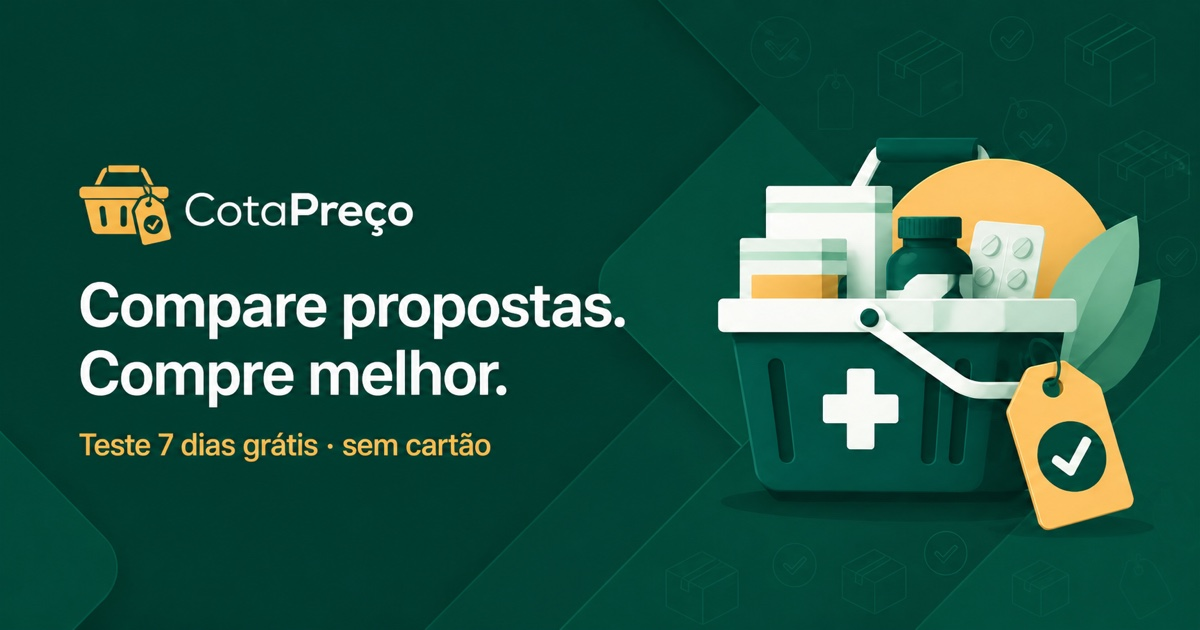
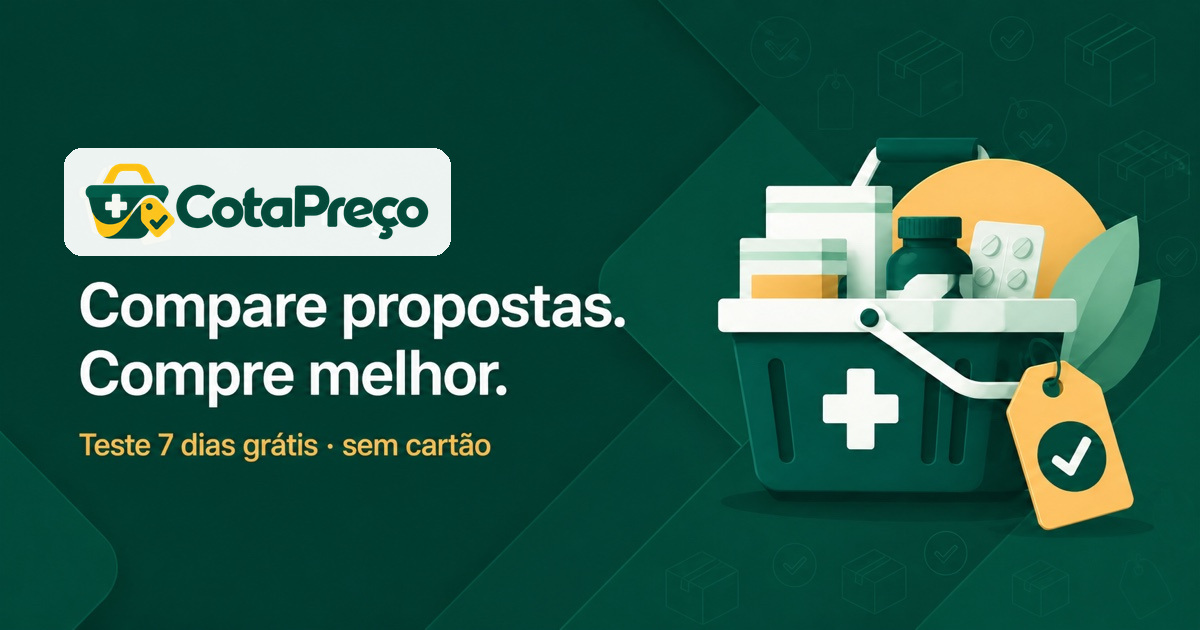
Atualiza identidade visual do CotaPreco

Changed region(s): [[0.0308, 0.2111, 0.4008, 0.4222]]

diff --git a/src/pages/PaginaAlterarSenhaRepresentante.tsx b/src/pages/PaginaAlterarSenhaRepresentante.tsx
@@ -8,5 +8,5 @@ import { LinkInterno, usarParametrosBusca } from '../roteamento'
 export default function PaginaAlterarSenhaRepresentante(){
   const[params]=usarParametrosBusca();const retorno=params.get('retornar')?.startsWith('/cotacao/responder/')?params.get('retornar')!:'/';const[senhaAtual,setSenhaAtual]=useState('');const[novaSenha,setNovaSenha]=useState('');const[confirmacao,setConfirmacao]=useState('');const[mostrar,setMostrar]=useState(false);const[erro,setErro]=useState('');const[ocupado,setOcupado]=useState(false);const[concluido,setConcluido]=useState(false)
   const salvar=async(event:FormEvent)=>{event.preventDefault();setErro('');if(novaSenha!==confirmacao){setErro('A confirmação não corresponde à nova senha.');return}setOcupado(true);try{await apiRepresentante('/publico/representantes/senha',{method:'PUT',body:JSON.stringify({senhaAtual,novaSenha})});await encerrarSessaoRepresentante();setConcluido(true)}catch(e){setErro(e instanceof ErroApi?e.message:'Não foi possível alterar a senha.')}finally{setOcupado(false)}}
-  return <div className="public-page public-center"><div className="public-logo reset-logo"><img src="/cotapreco-icon.png" alt=""/>CotaPreço</div><section className="public-card reset-card">{concluido?<><div className="success-icon large"><CheckCircle2/></div><h1>Senha alterada</h1><p>Por segurança, sua sessão foi encerrada. Entre novamente para continuar.</p><LinkInterno className="button button-primary button-large full-button" to={retorno}>Voltar para a cotação</LinkInterno></>:<><div className="success-icon small-icon"><KeyRound/></div><span className="eyebrow green">Conta do representante</span><h1>Alterar senha</h1><p>Confirme sua senha atual e escolha uma nova.</p>{erro&&<AvisoErro message={erro}/>}<form className="stack-form" onSubmit={salvar}><label>Senha atual<div className="password-field"><input required autoComplete="current-password" type={mostrar?'text':'password'} value={senhaAtual} onChange={e=>setSenhaAtual(e.target.value)}/><button type="button" aria-label={mostrar?'Ocultar senhas':'Mostrar senhas'} onClick={()=>setMostrar(valor=>!valor)}>{mostrar?<EyeOff/>:<Eye/>}</button></div></label><label>Nova senha<input required autoComplete="new-password" maxLength={72} type={mostrar?'text':'password'} value={novaSenha} onChange={e=>setNovaSenha(e.target.value)}/><IndicadorForcaSenha senha={novaSenha}/></label><label>Confirmar nova senha<input required autoComplete="new-password" maxLength={72} type={mostrar?'text':'password'} value={confirmacao} onChange={e=>setConfirmacao(e.target.value)}/></label><button className="button button-primary button-large full-button" disabled={ocupado}>{ocupado?'Atualizando...':'Atualizar senha'}</button></form></>}<div className="public-security"><ShieldCheck/>A alteração encerra as sessões ativas.</div>{!concluido&&<LinkInterno className="reset-back" to={retorno}><ArrowLeft/>Voltar para a cotação</LinkInterno>}</section></div>
+  return <div className="public-page public-center"><div className="public-logo reset-logo"><img className="cotapreco-logo" src="/cotapreco-logo.png?v=20260904-2" alt="CotaPreço"/></div><section className="public-card reset-card">{concluido?<><div className="success-icon large"><CheckCircle2/></div><h1>Senha alterada</h1><p>Por segurança, sua sessão foi encerrada. Entre novamente para continuar.</p><LinkInterno className="button button-primary button-large full-button" to={retorno}>Voltar para a cotação</LinkInterno></>:<><div className="success-icon small-icon"><KeyRound/></div><span className="eyebrow green">Conta do representante</span><h1>Alterar senha</h1><p>Confirme sua senha atual e escolha uma nova.</p>{erro&&<AvisoErro message={erro}/>}<form className="stack-form" onSubmit={salvar}><label>Senha atual<div className="password-field"><input required autoComplete="current-password" type={mostrar?'text':'password'} value={senhaAtual} onChange={e=>setSenhaAtual(e.target.value)}/><button type="button" aria-label={mostrar?'Ocultar senhas':'Mostrar senhas'} onClick={()=>setMostrar(valor=>!valor)}>{mostrar?<EyeOff/>:<Eye/>}</button></div></label><label>Nova senha<input required autoComplete="new-password" maxLength={72} type={mostrar?'text':'password'} value={novaSenha} onChange={e=>setNovaSenha(e.target.value)}/><IndicadorForcaSenha senha={novaSenha}/></label><label>Confirmar nova senha<input required autoComplete="new-password" maxLength={72} type={mostrar?'text':'password'} value={confirmacao} onChange={e=>setConfirmacao(e.target.value)}/></label><button className="button button-primary button-large full-button" disabled={ocupado}>{ocupado?'Atualizando...':'Atualizar senha'}</button></form></>}<div className="public-security"><ShieldCheck/>A alteração encerra as sessões ativas.</div>{!concluido&&<LinkInterno className="reset-back" to={retorno}><ArrowLeft/>Voltar para a cotação</LinkInterno>}</section></div>
 }

diff --git a/src/components/LayoutSistema.tsx b/src/components/LayoutSistema.tsx
@@ -43,7 +43,7 @@ export default function LayoutSistema({children}:{children:ReactNode}){
   const tituloNavegacao=(label:string)=>recolhidaEfetiva?label:undefined
   return <div className={`app-shell ${recolhidaEfetiva?'app-shell-sidebar-recolhida':''}`}>
     <aside className={`sidebar ${open?'sidebar-open':''} ${recolhidaEfetiva?'sidebar-recolhida':''}`}>
-      <div className="brand"><div className="brand-mark"><img src="/cotapreco-icon.png" alt=""/></div><div className="brand-copy"><strong>CotaPreço</strong><span>{user?.staff?'Equipe interna':'Compras inteligentes'}</span></div><button aria-label={recolhida?'Expandir menu':'Minimizar menu'} className="icon-button sidebar-toggle" title={recolhida?'Expandir menu':'Minimizar menu'} onClick={()=>setRecolhida(valor=>!valor)}>{recolhida?<PanelLeftOpen size={20}/>:<PanelLeftClose size={20}/>}</button><button className="icon-button sidebar-close" onClick={()=>setOpen(false)}><X size={20}/></button></div>
+      <div className="brand"><div className="brand-copy"><img className="cotapreco-logo" src="/cotapreco-logo.png?v=20260904-2" alt="CotaPreço"/><span>{user?.staff?'Equipe interna':'Compras inteligentes'}</span></div><button aria-label={recolhida?'Expandir menu':'Minimizar menu'} className="icon-button sidebar-toggle" title={recolhida?'Expandir menu':'Minimizar menu'} onClick={()=>setRecolhida(valor=>!valor)}>{recolhida?<PanelLeftOpen size={20}/>:<PanelLeftClose size={20}/>}</button><button className="icon-button sidebar-close" onClick={()=>setOpen(false)}><X size={20}/></button></div>
       <nav>
         {(user?.staff?linksStaff:links).map(({to,label,icon:Icon,end})=><LinkNavegacao key={to} to={to} end={end} aria-label={label} title={tituloNavegacao(label)} onClick={fecharMenuMobile}><Icon size={20}/><span>{label}</span><ChevronRight className="nav-chevron" size={16}/></LinkNavegacao>)}
         {!user?.staff&&(isAdminAtivo(user)||isAdminDoGrupo(user))&&<><div className="nav-divider"/><span className="nav-label">Administração</span>{isAdminDoGrupo(user)&&<LinkNavegacao to="/usuarios" aria-label="Usuários" title={tituloNavegacao('Usuários')} onClick={fecharMenuMobile}><Users size={20}/><span>Usuários</span><ChevronRight className="nav-chevron" size={16}/></LinkNavegacao>}<LinkNavegacao to="/dados-farmacia" aria-label="Dados da farmácia" title={tituloNavegacao('Dados da farmácia')} onClick={fecharMenuMobile}><Building2 size={20}/><span>Dados da farmácia</span><ChevronRight className="nav-chevron" size={16}/></LinkNavegacao></>}
@@ -54,6 +54,6 @@ export default function LayoutSistema({children}:{children:ReactNode}){
       <div className="account"><div className="avatar">{user?.name.slice(0,2).toUpperCase()}</div><div><strong>{user?.name}</strong>{!user?.staff&&<SeletorFarmacia user={user}/>}</div><button className="icon-button" title="Sair" onClick={()=>void logout()}><LogOut size={19}/></button></div>
     </aside>
     {open&&<button aria-label="Fechar menu" className="sidebar-backdrop" onClick={()=>setOpen(false)}/>} 
-    <div className="main-area"><header className="mobile-header"><button className="icon-button" onClick={()=>setOpen(true)}><Menu/></button><div className="brand compact"><div className="brand-mark"><img src="/cotapreco-icon.png" alt=""/></div><strong>CotaPreço</strong></div><div className="avatar small">{user?.name[0]}</div></header><main><AvisoEmailConfirmado/><FaixaAssinatura/><FaixaConfirmacaoEmail/>{children}</main><footer className="rodape-sistema"><AssinaturaEmpresa/></footer></div>
+    <div className="main-area"><header className="mobile-header"><button className="icon-button" onClick={()=>setOpen(true)}><Menu/></button><div className="brand compact"><img className="cotapreco-logo" src="/cotapreco-logo.png?v=20260904-2" alt="CotaPreço"/></div><div className="avatar small">{user?.name[0]}</div></header><main><AvisoEmailConfirmado/><FaixaAssinatura/><FaixaConfirmacaoEmail/>{children}</main><footer className="rodape-sistema"><AssinaturaEmpresa/></footer></div>
   </div>
 }

diff --git a/src/pages/PaginaRedefinirSenha.tsx b/src/pages/PaginaRedefinirSenha.tsx
@@ -8,5 +8,5 @@ export default function PaginaRedefinirSenha(){
   const[params]=usarParametrosBusca();const token=params.get('token')??''
   const[senha,setSenha]=useState('');const[confirmacao,setConfirmacao]=useState('');const[erro,setErro]=useState('');const[ocupado,setOcupado]=useState(false);const[concluido,setConcluido]=useState(false)
   const enviar=async(event:FormEvent)=>{event.preventDefault();setErro('');if(senha!==confirmacao){setErro('As senhas não coincidem.');return}setOcupado(true);try{await apiPublica('/auth/redefinir-senha',{method:'POST',body:JSON.stringify({token,novaSenha:senha})});setConcluido(true)}catch(e){setErro(e instanceof ErroApi?e.message:'Não foi possível redefinir a senha.')}finally{setOcupado(false)}}
-  return <div className="public-page public-center"><div className="public-logo reset-logo"><img src="/cotapreco-icon.png" alt=""/>CotaPreço</div><section className="public-card reset-card">{concluido?<><div className="success-icon large"><CheckCircle2/></div><h1>Senha redefinida</h1><p>Sua senha foi atualizada. Entre novamente para continuar.</p><LinkInterno className="button button-primary button-large full-button" to="/login">Ir para o login</LinkInterno></>:<><div className="success-icon small-icon"><KeyRound/></div><span className="eyebrow green">Recuperar acesso</span><h1>Crie uma nova senha</h1><p>Escolha uma senha com pelo menos 8 caracteres.</p>{!token&&<AvisoErro message="O link de redefinição está incompleto."/>}{erro&&<AvisoErro message={erro}/>}<form onSubmit={enviar} className="stack-form"><label>Nova senha<input type="password" required minLength={8} maxLength={72} autoComplete="new-password" value={senha} onChange={e=>setSenha(e.target.value)}/></label><label>Confirmar nova senha<input type="password" required minLength={8} maxLength={72} autoComplete="new-password" value={confirmacao} onChange={e=>setConfirmacao(e.target.value)}/></label><button className="button button-primary button-large full-button" disabled={ocupado||!token}>{ocupado?'Salvando...':'Redefinir senha'}</button></form></>}<div className="public-security"><ShieldCheck/>Link protegido e de uso único.</div></section></div>
+  return <div className="public-page public-center"><div className="public-logo reset-logo"><img className="cotapreco-logo" src="/cotapreco-logo.png?v=20260904-2" alt="CotaPreço"/></div><section className="public-card reset-card">{concluido?<><div className="success-icon large"><CheckCircle2/></div><h1>Senha redefinida</h1><p>Sua senha foi atualizada. Entre novamente para continuar.</p><LinkInterno className="button button-primary button-large full-button" to="/login">Ir para o login</LinkInterno></>:<><div className="success-icon small-icon"><KeyRound/></div><span className="eyebrow green">Recuperar acesso</span><h1>Crie uma nova senha</h1><p>Escolha uma senha com pelo menos 8 caracteres.</p>{!token&&<AvisoErro message="O link de redefinição está incompleto."/>}{erro&&<AvisoErro message={erro}/>}<form onSubmit={enviar} className="stack-form"><label>Nova senha<input type="password" required minLength={8} maxLength={72} autoComplete="new-password" value={senha} onChange={e=>setSenha(e.target.value)}/></label><label>Confirmar nova senha<input type="password" required minLength={8} maxLength={72} autoComplete="new-password" value={confirmacao} onChange={e=>setConfirmacao(e.target.value)}/></label><button className="button button-primary button-large full-button" disabled={ocupado||!token}>{ocupado?'Salvando...':'Redefinir senha'}</button></form></>}<div className="public-security"><ShieldCheck/>Link protegido e de uso único.</div></section></div>
 }

diff --git a/src/pages/PaginaRedefinirSenhaRepresentante.tsx b/src/pages/PaginaRedefinirSenhaRepresentante.tsx
@@ -9,5 +9,5 @@ export default function PaginaRedefinirSenhaRepresentante(){
   const[params]=usarParametrosBusca();const token=params.get('token')??''
   const[senha,setSenha]=useState('');const[confirmacao,setConfirmacao]=useState('');const[erro,setErro]=useState('');const[ocupado,setOcupado]=useState(false);const[concluido,setConcluido]=useState(false)
   const enviar=async(event:FormEvent)=>{event.preventDefault();setErro('');if(senha!==confirmacao){setErro('As senhas não coincidem.');return}setOcupado(true);try{await apiPublica('/publico/representantes/redefinir-senha',{method:'POST',body:JSON.stringify({token,novaSenha:senha})});setConcluido(true)}catch(e){setErro(e instanceof ErroApi?e.message:'Não foi possível redefinir a senha.')}finally{setOcupado(false)}}
-  return <div className="public-page public-center"><div className="public-logo reset-logo"><img src="/cotapreco-icon.png" alt=""/>CotaPreço</div><section className="public-card reset-card">{concluido?<><div className="success-icon large"><CheckCircle2/></div><h1>Senha redefinida</h1><p>Abra novamente o link da cotação para entrar com sua nova senha.</p></>:<><div className="success-icon small-icon"><KeyRound/></div><span className="eyebrow green">Conta do representante</span><h1>Crie uma nova senha</h1><p>Escolha uma senha fácil de lembrar.</p>{!token&&<AvisoErro message="O link de redefinição está incompleto."/>}{erro&&<AvisoErro message={erro}/>}<form onSubmit={enviar} className="stack-form"><label>Nova senha<input type="password" required minLength={1} maxLength={72} autoComplete="new-password" value={senha} onChange={e=>setSenha(e.target.value)}/><IndicadorForcaSenha senha={senha}/></label><label>Confirmar nova senha<input type="password" required minLength={1} maxLength={72} autoComplete="new-password" value={confirmacao} onChange={e=>setConfirmacao(e.target.value)}/></label><button className="button button-primary button-large full-button" disabled={ocupado||!token}>{ocupado?'Salvando...':'Redefinir senha'}</button></form></>}<div className="public-security"><ShieldCheck/>Link protegido e de uso único.</div></section></div>
+  return <div className="public-page public-center"><div className="public-logo reset-logo"><img className="cotapreco-logo" src="/cotapreco-logo.png?v=20260904-2" alt="CotaPreço"/></div><section className="public-card reset-card">{concluido?<><div className="success-icon large"><CheckCircle2/></div><h1>Senha redefinida</h1><p>Abra novamente o link da cotação para entrar com sua nova senha.</p></>:<><div className="success-icon small-icon"><KeyRound/></div><span className="eyebrow green">Conta do representante</span><h1>Crie uma nova senha</h1><p>Escolha uma senha fácil de lembrar.</p>{!token&&<AvisoErro message="O link de redefinição está incompleto."/>}{erro&&<AvisoErro message={erro}/>}<form onSubmit={enviar} className="stack-form"><label>Nova senha<input type="password" required minLength={1} maxLength={72} autoComplete="new-password" value={senha} onChange={e=>setSenha(e.target.value)}/><IndicadorForcaSenha senha={senha}/></label><label>Confirmar nova senha<input type="password" required minLength={1} maxLength={72} autoComplete="new-password" value={confirmacao} onChange={e=>setConfirmacao(e.target.value)}/></label><button className="button button-primary button-large full-button" disabled={ocupado||!token}>{ocupado?'Salvando...':'Redefinir senha'}</button></form></>}<div className="public-security"><ShieldCheck/>Link protegido e de uso único.</div></section></div>
 }

diff --git a/src/pages/PaginaEsqueciSenha.tsx b/src/pages/PaginaEsqueciSenha.tsx
@@ -7,5 +7,5 @@ import { LinkInterno } from '../roteamento'
 export default function PaginaEsqueciSenha(){
   const[email,setEmail]=useState('');const[erro,setErro]=useState('');const[mensagem,setMensagem]=useState('');const[ocupado,setOcupado]=useState(false)
   const enviar=async(event:FormEvent)=>{event.preventDefault();setErro('');setMensagem('');setOcupado(true);try{const resposta=await apiPublica<{mensagem:string}>('/auth/esqueci-senha',{method:'POST',body:JSON.stringify({email})});setMensagem(resposta.mensagem)}catch(e){setErro(e instanceof ErroApi?e.message:'Não foi possível enviar as instruções.')}finally{setOcupado(false)}}
-  return <div className="public-page public-center"><div className="public-logo reset-logo"><img src="/cotapreco-icon.png" alt=""/>CotaPreço</div><section className="public-card reset-card"><div className="success-icon small-icon"><KeyRound/></div><span className="eyebrow green">Recuperar acesso</span><h1>Esqueceu sua senha?</h1><p>Informe seu e-mail de acesso. Enviaremos um link seguro para criar uma nova senha.</p>{erro&&<AvisoErro message={erro}/>} {mensagem?<div className="reset-success"><CheckCircle2/><p>{mensagem}</p></div>:<form onSubmit={enviar} className="stack-form"><label>E-mail<input type="email" required autoComplete="email" value={email} onChange={e=>setEmail(e.target.value)}/></label><button className="button button-primary button-large full-button" disabled={ocupado}>{ocupado?'Enviando...':<><Mail/>Enviar instruções</>}</button></form>}<LinkInterno className="reset-back" to="/login"><ArrowLeft/>Voltar para o login</LinkInterno></section></div>
+  return <div className="public-page public-center"><div className="public-logo reset-logo"><img className="cotapreco-logo" src="/cotapreco-logo.png?v=20260904-2" alt="CotaPreço"/></div><section className="public-card reset-card"><div className="success-icon small-icon"><KeyRound/></div><span className="eyebrow green">Recuperar acesso</span><h1>Esqueceu sua senha?</h1><p>Informe seu e-mail de acesso. Enviaremos um link seguro para criar uma nova senha.</p>{erro&&<AvisoErro message={erro}/>} {mensagem?<div className="reset-success"><CheckCircle2/><p>{mensagem}</p></div>:<form onSubmit={enviar} className="stack-form"><label>E-mail<input type="email" required autoComplete="email" value={email} onChange={e=>setEmail(e.target.value)}/></label><button className="button button-primary button-large full-button" disabled={ocupado}>{ocupado?'Enviando...':<><Mail/>Enviar instruções</>}</button></form>}<LinkInterno className="reset-back" to="/login"><ArrowLeft/>Voltar para o login</LinkInterno></section></div>
 }

diff --git a/index.html b/index.html
@@ -12,16 +12,16 @@
     <meta property="og:url" content="https://cotapreco.com/"/>
     <meta property="og:title" content="CotaPreço — Cotação de medicamentos para farmácias"/>
     <meta property="og:description" content="Compare as propostas das distribuidoras item a item e receba o pedido de cada uma pronto. Teste 7 dias grátis, sem cartão."/>
-    <meta property="og:image" content="https://cotapreco.com/cotapreco-social-whatsapp.jpg"/>
+    <meta property="og:image" content="https://cotapreco.com/cotapreco-social-whatsapp.jpg?v=20260904-2"/>
     <meta property="og:image:type" content="image/jpeg"/>
     <meta property="og:image:width" content="1200"/><meta property="og:image:height" content="630"/>
     <meta property="og:image:alt" content="CotaPreço — Compare propostas. Compre melhor. Teste 7 dias grátis, sem cartão."/>
     <meta name="twitter:card" content="summary_large_image"/>
     <meta name="twitter:title" content="CotaPreço — Cotação de medicamentos para farmácias"/>
     <meta name="twitter:description" content="Compare as propostas das distribuidoras item a item e receba o pedido de cada uma pronto. Teste 7 dias grátis, sem cartão."/>
-    <meta name="twitter:image" content="https://cotapreco.com/cotapreco-social-whatsapp.jpg"/>
-    <link rel="icon" type="image/png" href="/favicon.png"/><link rel="apple-touch-icon" href="/apple-touch-icon.png"/>
-    <link rel="manifest" href="/manifest.webmanifest"/>
+    <meta name="twitter:image" content="https://cotapreco.com/cotapreco-social-whatsapp.jpg?v=20260904-2"/>
+    <link rel="icon" type="image/png" href="/favicon.png?v=20260904-2"/><link rel="apple-touch-icon" href="/apple-touch-icon.png?v=20260904-2"/>
+    <link rel="manifest" href="/manifest.webmanifest?v=20260904-2"/>
     <link rel="preload" as="image" href="/landing/04-compra-sugerida-mobile.webp" media="(max-width: 700px)"/>
     <script type="application/ld+json">
     {
@@ -33,6 +33,7 @@
           "applicationCategory": "BusinessApplication",
           "operatingSystem": "Web",
           "url": "https://cotapreco.com/",
+          "image": "https://cotapreco.com/cotapreco-logo.png?v=20260904-2",
           "description": "Sistema de cotação e compra de medicamentos para farmácias: recebe as propostas das distribuidoras, compara item a item e monta o pedido de cada uma pelo melhor preço.",
           "inLanguage": "pt-BR",
           "offers": {

diff --git a/src/styles.css b/src/styles.css
@@ -4229,8 +4229,8 @@ label small {
     font-size: 16px;
   }
   .public-header .public-logo img {
-    width: 30px;
-    height: 30px;
+    width: 136px;
+    height: auto;
   }
   .public-header > .representative-session {
     display: flex;
@@ -5593,12 +5593,42 @@ label small {
   height: 100%;
   object-fit: cover;
 }
-.public-logo > img {
+.cotapreco-logo {
   display: block;
-  width: 34px;
-  height: 34px;
-  border-radius: 10px;
-  object-fit: cover;
+  width: 148px;
+  max-width: 100%;
+  height: auto;
+  object-fit: contain;
+}
+.brand-copy {
+  gap: 2px;
+  min-width: 0;
+}
+.brand-copy .cotapreco-logo {
+  width: 148px;
+}
+.brand.light .brand-copy {
+  align-items: flex-start;
+}
+.brand.light .cotapreco-logo {
+  width: 205px;
+  padding: 9px 13px;
+  border-radius: 14px;
+  background: rgba(247, 251, 249, 0.96);
+}
+.brand.light .brand-copy span {
+  margin-top: 3px;
+  margin-left: 13px;
+}
+.brand.compact .cotapreco-logo {
+  width: 126px;
+}
+.public-logo > img.cotapreco-logo {
+  display: block;
+  width: 152px;
+  height: auto;
+  border-radius: 0;
+  object-fit: contain;
 }
 
 /* Produto adicional na revisão da cotação */

diff --git a/src/pages/PaginaLogin.tsx b/src/pages/PaginaLogin.tsx
@@ -32,7 +32,7 @@ export default function PaginaLogin(){
 
   return <div className="login-page">
     <section className="login-hero">
-      <div className="brand light"><div className="brand-mark"><img src="/cotapreco-icon.png" alt=""/></div><div><strong>CotaPreço</strong><span>Compras inteligentes</span></div></div>
+      <div className="brand light"><div className="brand-copy"><img className="cotapreco-logo" src="/cotapreco-logo.png?v=20260904-2" alt="CotaPreço"/><span>Compras inteligentes</span></div></div>
       <div className="hero-copy">
         <span className="eyebrow"><Sparkles size={16}/> Mais economia, menos planilhas</span>
         <h1>Compare propostas.<br/>Compre melhor.</h1>

diff --git a/src/pages/PaginaCadastroFarmacia.tsx b/src/pages/PaginaCadastroFarmacia.tsx
@@ -89,7 +89,7 @@ export default function PaginaCadastroFarmacia() {
   return <div className="lp cad">
     <header className="lp-topo">
       <div className="lp-container lp-topo-interno">
-        <LinkInterno to="/" className="lp-marca"><img src="/cotapreco-icon.png" alt="" width={34} height={34}/><span>CotaPreço</span></LinkInterno>
+        <LinkInterno to="/" className="lp-marca"><img className="cotapreco-logo" src="/cotapreco-logo.png?v=20260904-2" alt="CotaPreço"/></LinkInterno>
         <nav className="lp-topo-acoes" aria-label="Acesso ao sistema"><LinkInterno to="/login" className="lp-link-entrar">Entrar</LinkInterno></nav>
       </div>
     </header>

diff --git a/src/components/LayoutLegal.tsx b/src/components/LayoutLegal.tsx
@@ -27,8 +27,7 @@ export default function LayoutLegal({ titulo, resumo, indice, children }: {
     <header className="lp-topo">
       <div className="lp-container lp-topo-interno">
         <LinkInterno to="/" className="lp-marca">
-          <img src="/cotapreco-icon.png" alt="" width={34} height={34}/>
-          <span>CotaPreço</span>
+          <img className="cotapreco-logo" src="/cotapreco-logo.png?v=20260904-2" alt="CotaPreço"/>
         </LinkInterno>
         <nav className="lp-topo-acoes" aria-label="Acesso ao sistema">
           <LinkInterno to="/login" className="lp-link-entrar">Entrar</LinkInterno>

diff --git a/src/pages/PaginaLanding.tsx b/src/pages/PaginaLanding.tsx
@@ -92,8 +92,7 @@ export default function PaginaLanding() {
     <header className="lp-topo">
       <div className="lp-container lp-topo-interno">
         <div className="lp-marca">
-          <img src="/cotapreco-icon.png" alt="" width={34} height={34}/>
-          <span>CotaPreço</span>
+          <img className="cotapreco-logo" src="/cotapreco-logo.png?v=20260904-2" alt="CotaPreço"/>
         </div>
         <nav className="lp-topo-acoes" aria-label="Acesso ao sistema">
           <LinkInterno to="/login" className="lp-link-entrar">Entrar</LinkInterno>

diff --git a/src/components/RodapeEmpresa.tsx b/src/components/RodapeEmpresa.tsx
@@ -29,8 +29,7 @@ export default function RodapeSite({ mostrarCadastro = true }: { mostrarCadastro
   return <footer className="lp-rodape">
     <div className="lp-container lp-rodape-interno">
       <div className="lp-marca">
-        <img src="/cotapreco-icon.png" alt="" width={30} height={30}/>
-        <span>CotaPreço</span>
+        <img className="cotapreco-logo" src="/cotapreco-logo.png?v=20260904-2" alt="CotaPreço"/>
       </div>
       <p>Cotação e compra de medicamentos para farmácias.</p>
       <nav aria-label="Links do rodapé">
